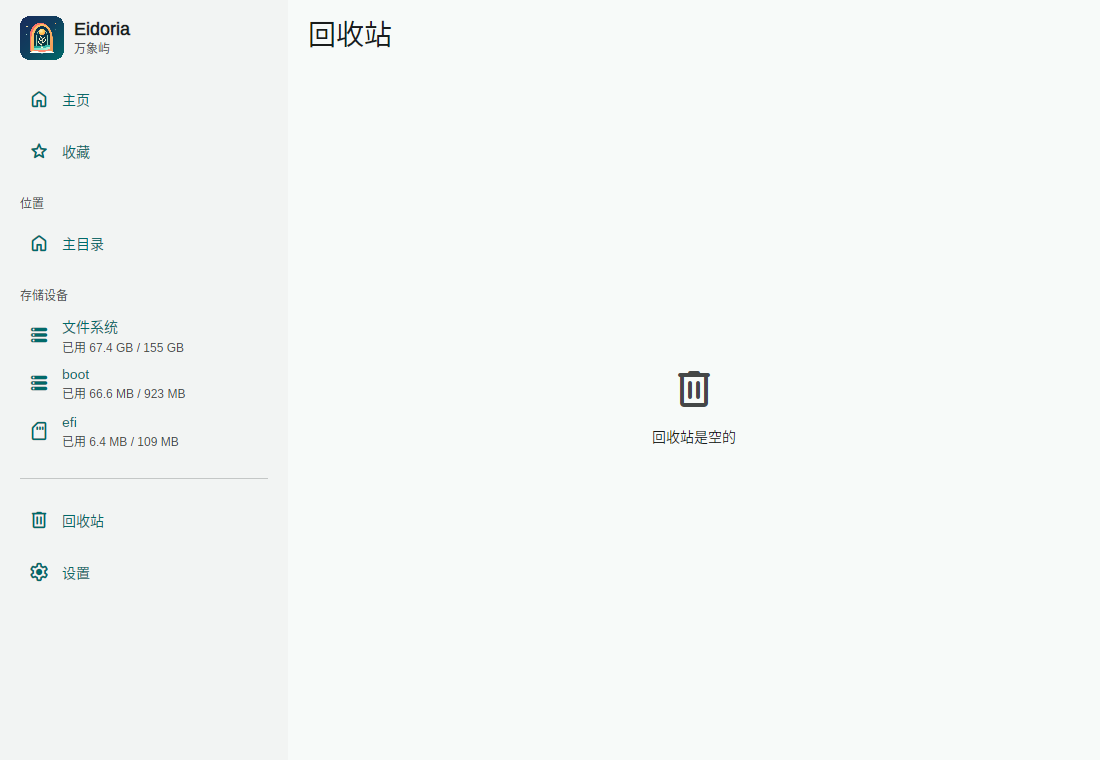
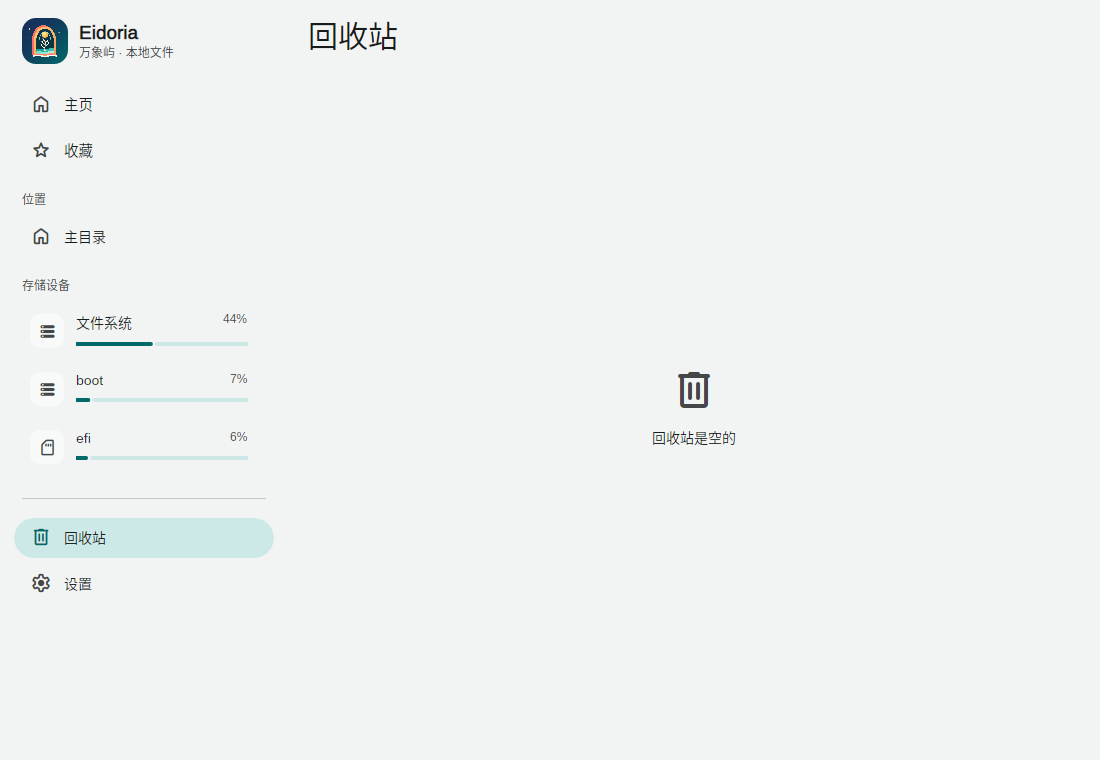
docs: 归档 v0.8 截图并回填视觉优化记录

diff --git a/README.md b/README.md
@@ -4,11 +4,11 @@
 
 基于 **Avalonia 12 + .NET 10** 的跨平台（Windows / Linux / Android）**本地**文件资源管理器，采用 **Material Design 3**（`Md3.Avalonia`）设计语言，按窗口尺寸类做真响应式（Adaptive）布局：底部导航栏（Compact）→ 导轨（Medium）→ 永久抽屉 + 预览侧栏（Expanded+）。核心层平台无关，平台能力经接口适配；许可证 Apache-2.0（见 `LICENSE`）。
 
-> **状态：v0.6**——浏览/搜索/预览（图片、文本、**Markdown 渲染、代码高亮、PDF 分页**、ZIP 条目）/复制移动删除（含回收站语义）/ZIP/收藏/设置已可用；v0.2 新增文件夹外部变更自动刷新、文件夹大小、校验和与批量重命名；**v0.3 新增 Android SAF 授权文件夹浏览**；**v0.4 新增详细信息视图**；**v0.5 新增拖放与系统剪贴板互通**；**v0.6 新增浏览器标签页与 PDF 分页预览，并将产品品牌定为 Eidoria（万象屿）**（名称与图标见 `docs/BRAND.md`；仓库、命名空间、Android ApplicationId 与数据目录仍保留内部代号 MdExplorer 以兼容既有数据）。标签页各自保存路径、前进/后退栈、过滤词与选集，并可跨启动恢复；PDF 预览采用 MIT 许可的 PDFtoImage/PDFium 按页光栅化（Android 内置预览需 API 31+）。音视频播放为后续里程碑；**插件系统与本地 AI 两条轨道已完成评估、仍排在核心完善之后**。
+> **状态：v0.8**——浏览/搜索/预览（图片、文本、**Markdown 渲染、代码高亮、PDF 分页**、ZIP 条目）/复制移动删除（含回收站语义）/ZIP/收藏/设置已可用；v0.2 新增文件夹外部变更自动刷新、文件夹大小、校验和与批量重命名；**v0.3 新增 Android SAF 授权文件夹浏览**；**v0.4 新增详细信息视图**；**v0.5 新增拖放与系统剪贴板互通**；**v0.6 新增浏览器标签页与 PDF 分页预览，并将产品品牌定为 Eidoria（万象屿）**（名称与图标见 `docs/BRAND.md`；仓库、命名空间、Android ApplicationId 与数据目录仍保留内部代号 MdExplorer 以兼容既有数据）；**v0.7 新增串行任务中心、可编辑地址栏、最近访问与标签页恢复**；**v0.8 按概念稿重塑视觉层级：柔和底板承载白色工作区与预览浮动卡，标签页改为与工作区同面相连的浏览器式页签，路径胶囊、类型色图标井、圆角文件卡与精确 `MdList` 选中态统一收敛，Compact 将标签轨与面包屑折叠为当前目录**。标签页各自保存路径、前进/后退栈、过滤词与选集，并可跨启动恢复；PDF 预览采用 MIT 许可的 PDFtoImage/PDFium 按页光栅化（Android 内置预览需 API 31+）。音视频播放为后续里程碑；**插件系统与本地 AI 两条轨道已完成评估、仍排在核心完善之后**。
 
-## 效果（CI 无头渲染实拍，归档于 `docs/assets/screenshots/`，含 Markdown/代码/批量重命名/详细信息视图/拖放提示/标签页/PDF/地址栏/任务中心 共 20 张）
+## 效果（CI 无头渲染实拍，归档于 `docs/assets/screenshots/`，含 Markdown/代码/批量重命名/详细信息视图/拖放提示/标签页/PDF/地址栏/任务中心/精修主页 共 21 张）
 
-<img src="docs/assets/screenshots/05-large-1440x900.png" alt="Large 1440：永久抽屉 + 网格 + 预览侧栏" width="720" />
+<img src="docs/assets/screenshots/17-large-tabs.png" alt="Large 1440：连接式双标签页 + 白色工作区 + 网格卡片 + 预览浮动卡" width="720" />
 
 <img src="docs/assets/screenshots/01-compact-390x844.png" alt="Compact 390：底部导航栏 + 列表 + FAB" width="240" /><img src="docs/assets/screenshots/02-compact-home.png" alt="Compact 主页：存储卡与分类" width="240" /><img src="docs/assets/screenshots/03-medium-768x1024.png" alt="Medium 768：导轨 + 网格" width="300" />
 
